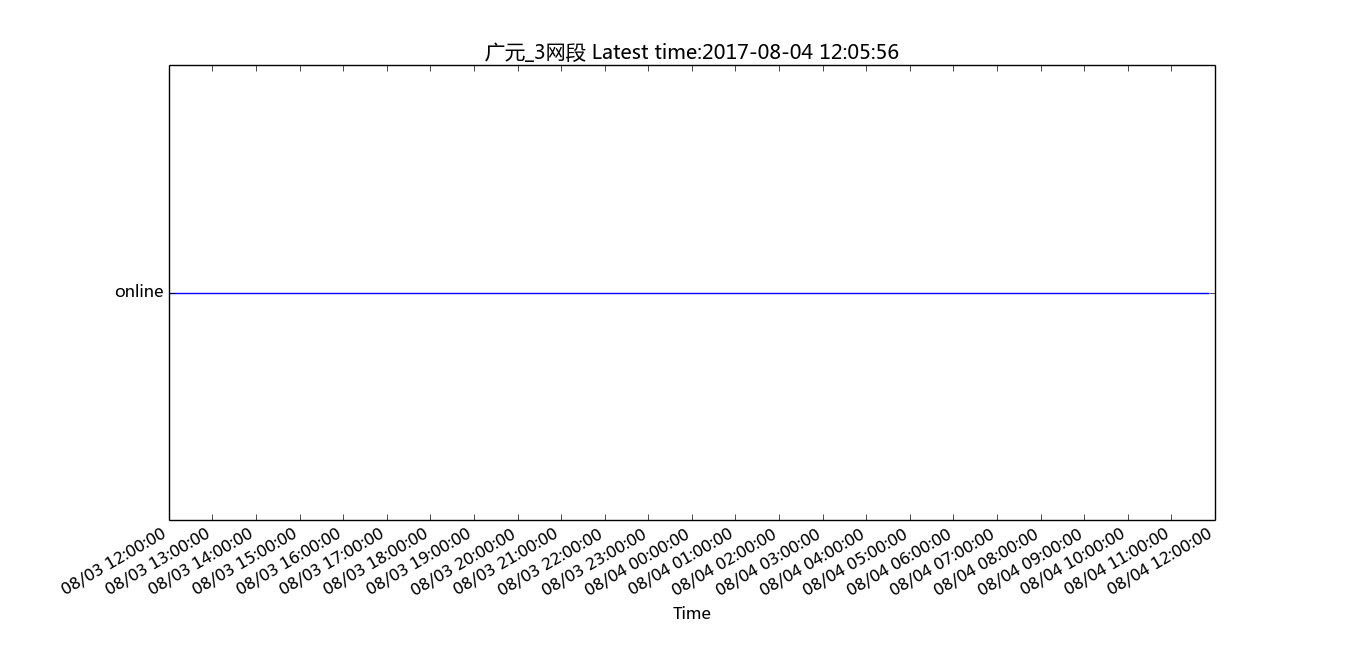
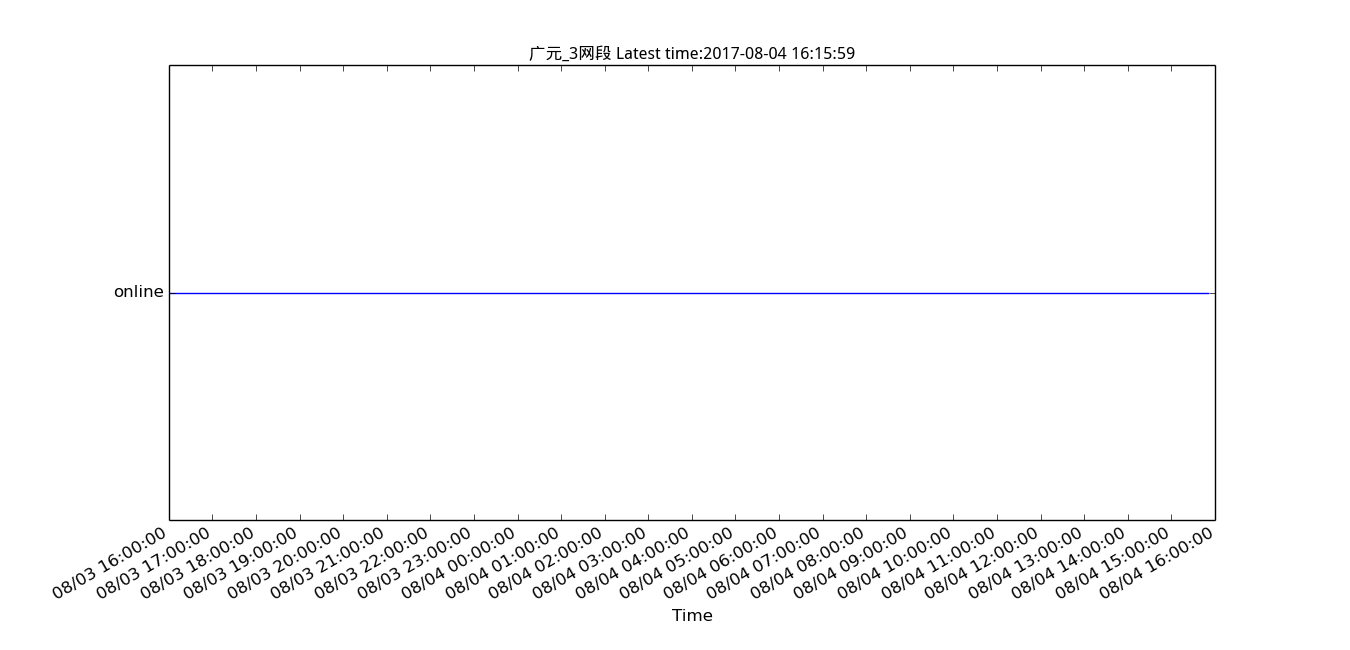
Add chinese font

Changed region(s): [[0.0311, 0.8, 0.9022, 0.9538], [0.3733, 0.0615, 0.6844, 0.0923], [0.0933, 0.4308, 0.1244, 0.4615]]

diff --git a/ams_monitor.py b/ams_monitor.py
@@ -9,6 +9,7 @@ import matplotlib.pyplot as plt
 from datetime import datetime
 import pandas as pd
 import matplotlib.dates as mdates
+import matplotlib.font_manager as fm
 
 x = []
 y = []
@@ -41,7 +42,8 @@ def request_data(farm, count):
     plt.xlabel("Time")
     plt.plot(x, y)
     plt.gcf().autofmt_xdate()
-    plt.title(farm + ' Latest time:' + info[-1][0])
+    prop = fm.FontProperties(fname='/usr/share/fonts/truetype/wqy.ttf')
+    ax.set_title(farm + ' Latest time:' + info[-1][0], fontproperties=prop)
     figgg = plt.gcf()
     figgg.set_size_inches(13.5, 6.5)
     plt.savefig('./images/' + count + '.png', dpi=100)

diff --git a/README.md b/README.md
@@ -12,3 +12,13 @@ apt-get install python3
 apt-get install python3-matplotlib
 apt-get install python3-pandas
 ```
+
+#### Configuration
+* Download font
+```https://sourceforge.net/projects/wqy/files/wqy-zenhei-snapshot/0.9.46-May/```
+
+* Mv font file:
+```
+wqy_zenhei.ttc tranform wqy_zenhei.ttf
+mv wqy_zenhei.ttf /usr/share/fonts/truetype/wqy.ttf
+```
